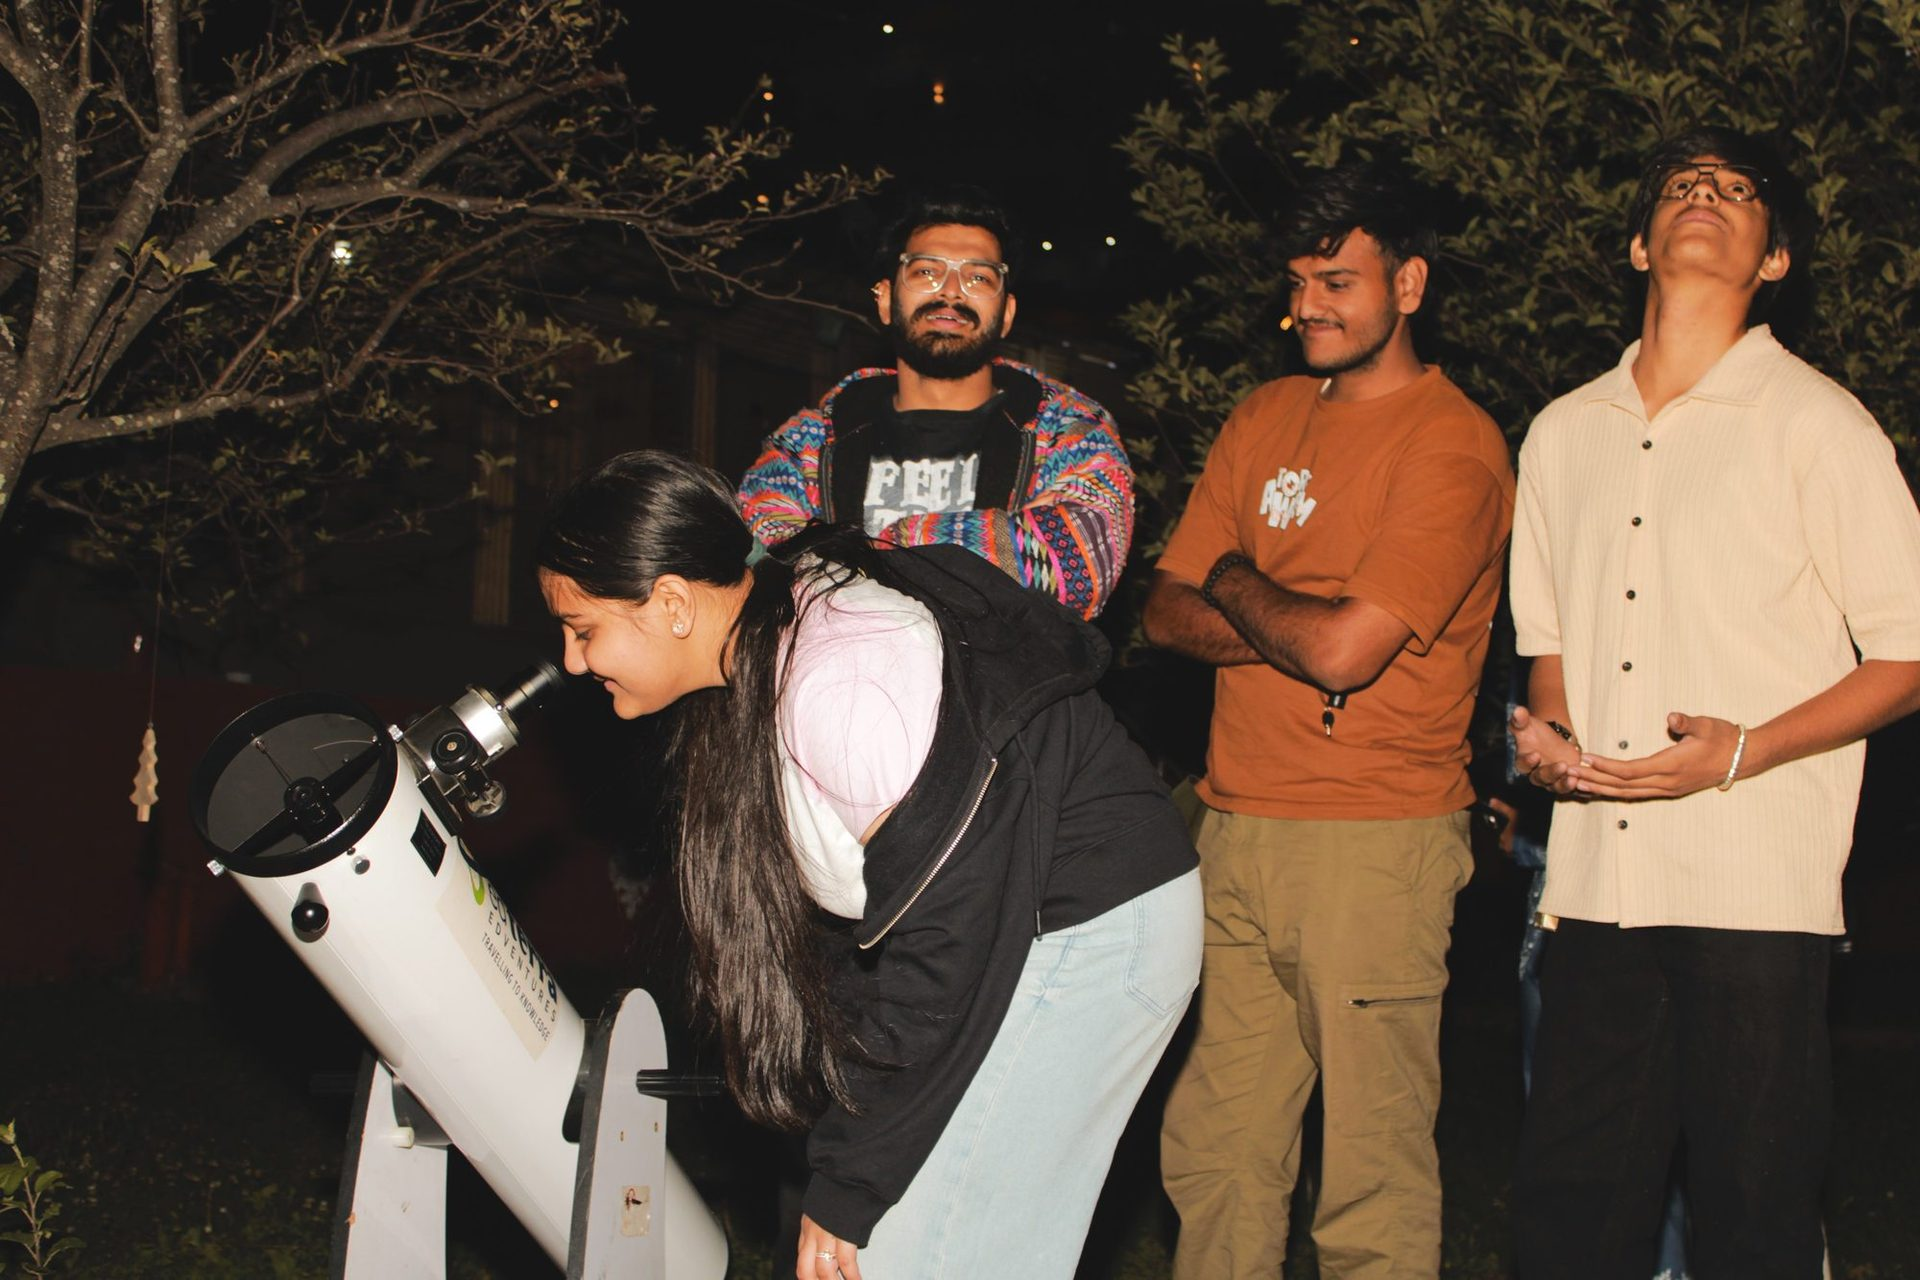
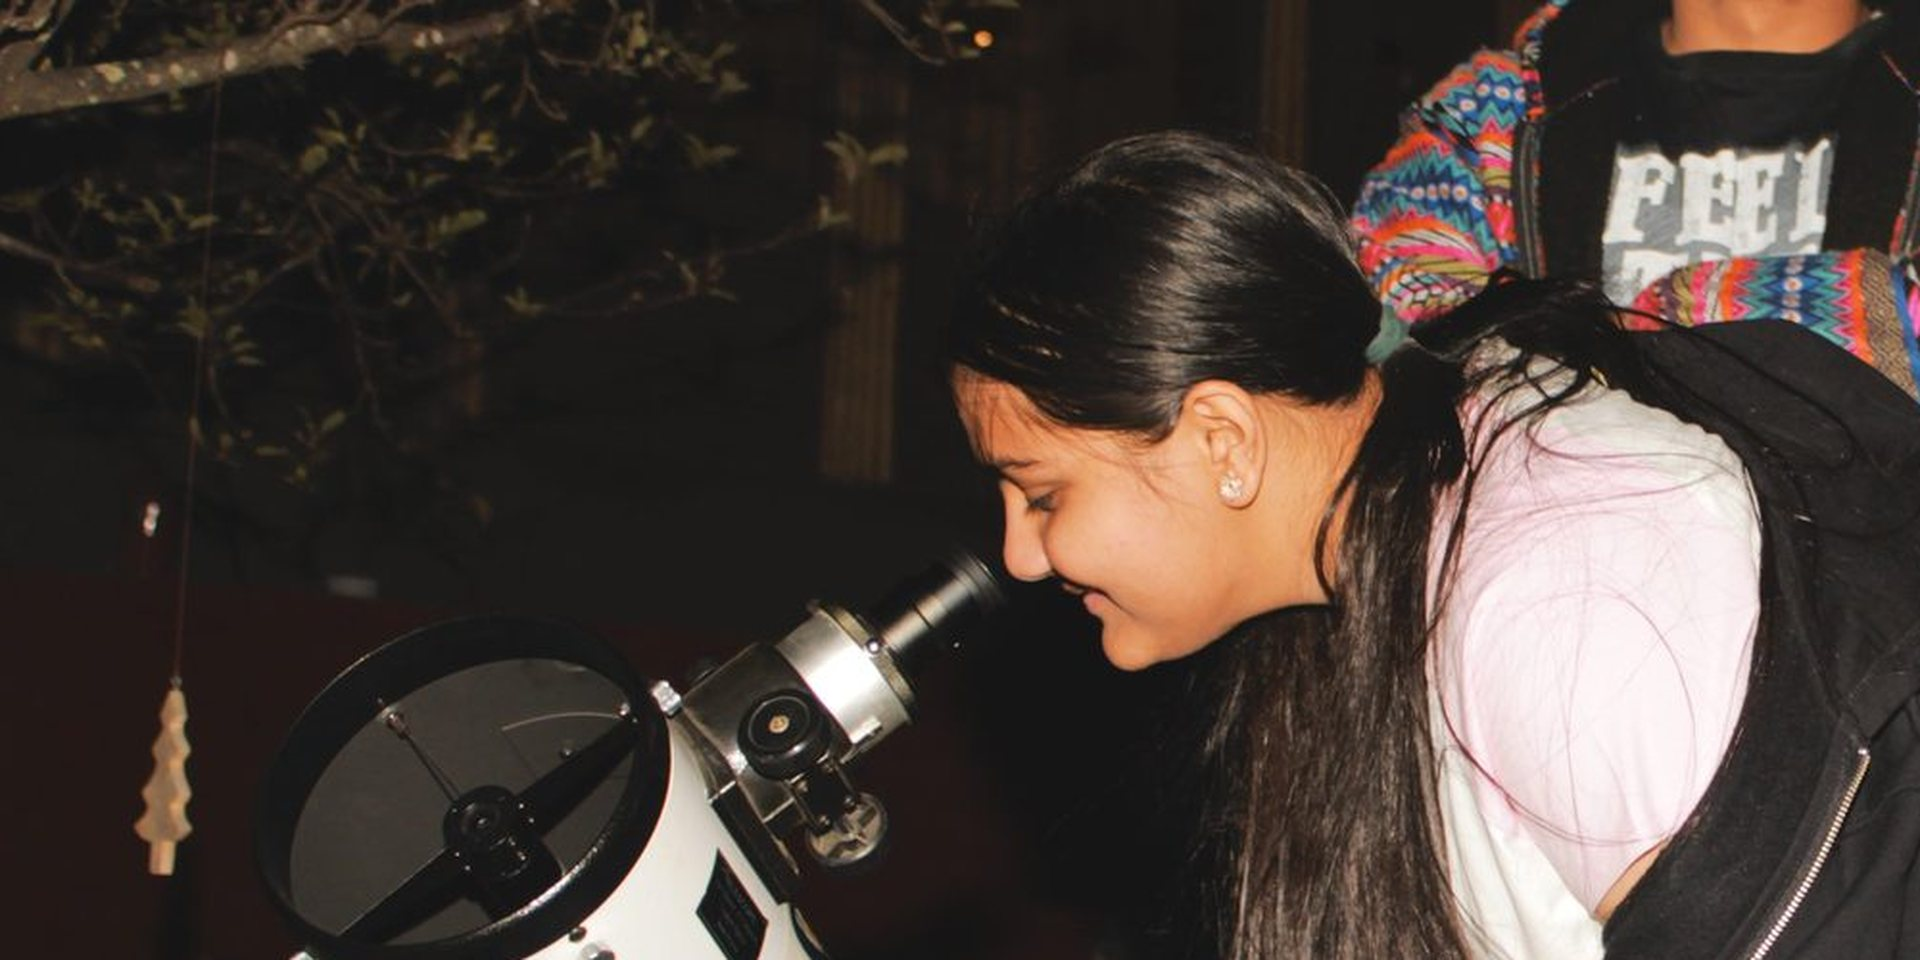
feat(hero): real telescope, reframed AstroTrain, school photo on AstroEd
Telescopes — swaps the nebula for an actual listed instrument. The Celestron
AstroMaster 70AZ product shot is a white studio cutout, so the background is
knocked out (border flood fill, plus a second pass for the white trapped
between the tripod legs that the first pass cannot reach) and the scope is
composited onto the galactic core, right-aligned clear of the copy.

AstroTrain — the guest at the eyepiece sat at 25% across, directly behind the
headline. Recropped at the hero's own ~2:1 aspect, so the slider does not crop
further and cut her head off, and positioned at 65% across where nothing
overlaps her.

AstroEd — now carries the school group photograph, which is what that slide is
actually about.

diff --git a/lib/hero-slides.ts b/lib/hero-slides.ts
@@ -84,8 +84,8 @@ export const heroSlides: HeroSlide[] = [
     headlineAccent: 'and a year of sky.',
     body: 'Astronomy that does not end when the workshop does: a Space Lab in the school, a structured yearly curriculum, and telescopes students actually use.',
     image: '/hero/astroed.jpg',
-    imageAlt: 'Students seated around a telescope at an evening astronomy session',
-    objectPosition: 'center 45%',
+    imageAlt: 'A school group photographed with the Astris Space team after an astronomy session',
+    objectPosition: 'center 42%',
     primary: { label: 'Explore AstroEd', href: '/astroed' },
     facts: ['Space Lab', 'Yearly curriculum', 'Schools'],
   },
@@ -96,7 +96,7 @@ export const heroSlides: HeroSlide[] = [
     headlineAccent: 'into the reason they come.',
     body: 'Equipment, trained staff and the operational know-how to run astronomy as a real guest experience — not a telescope left on a lawn.',
     image: '/hero/astrotrain.jpg',
-    imageAlt: 'A resort property under a clear evening sky',
+    imageAlt: 'A guest looking through a Dobsonian telescope at a property in the evening',
     primary: { label: 'Explore AstroTrain', href: '/astrotrain' },
     facts: ['Equipment', 'Staff training', 'Ongoing support'],
   },
@@ -107,7 +107,7 @@ export const heroSlides: HeroSlide[] = [
     headlineAccent: 'matters.',
     body: 'Telescopes chosen and supported by people who observe with them — for first light at home, for a school lab, or for imaging.',
     image: '/hero/telescopes.jpg',
-    imageAlt: 'The core of the Milky Way in colour',
+    imageAlt: 'A Celestron AstroMaster 70AZ refractor against the Milky Way',
     primary: { label: 'Browse telescopes', href: 'https://nakshatrascopes.in', external: true },
     facts: ['Beginner to imaging', 'Guidance included', 'Delivered across India'],
   },
